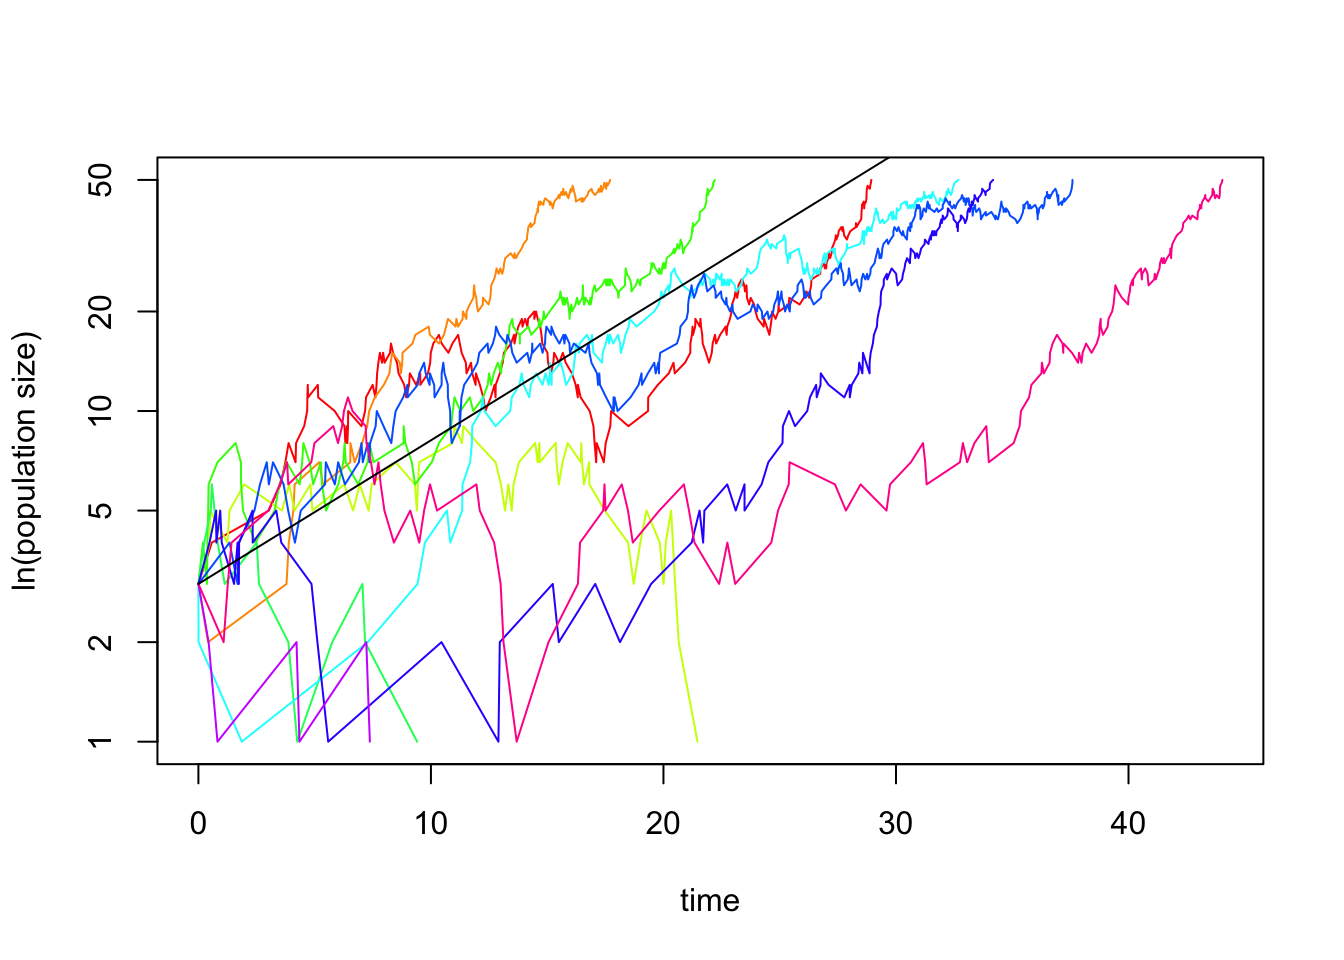
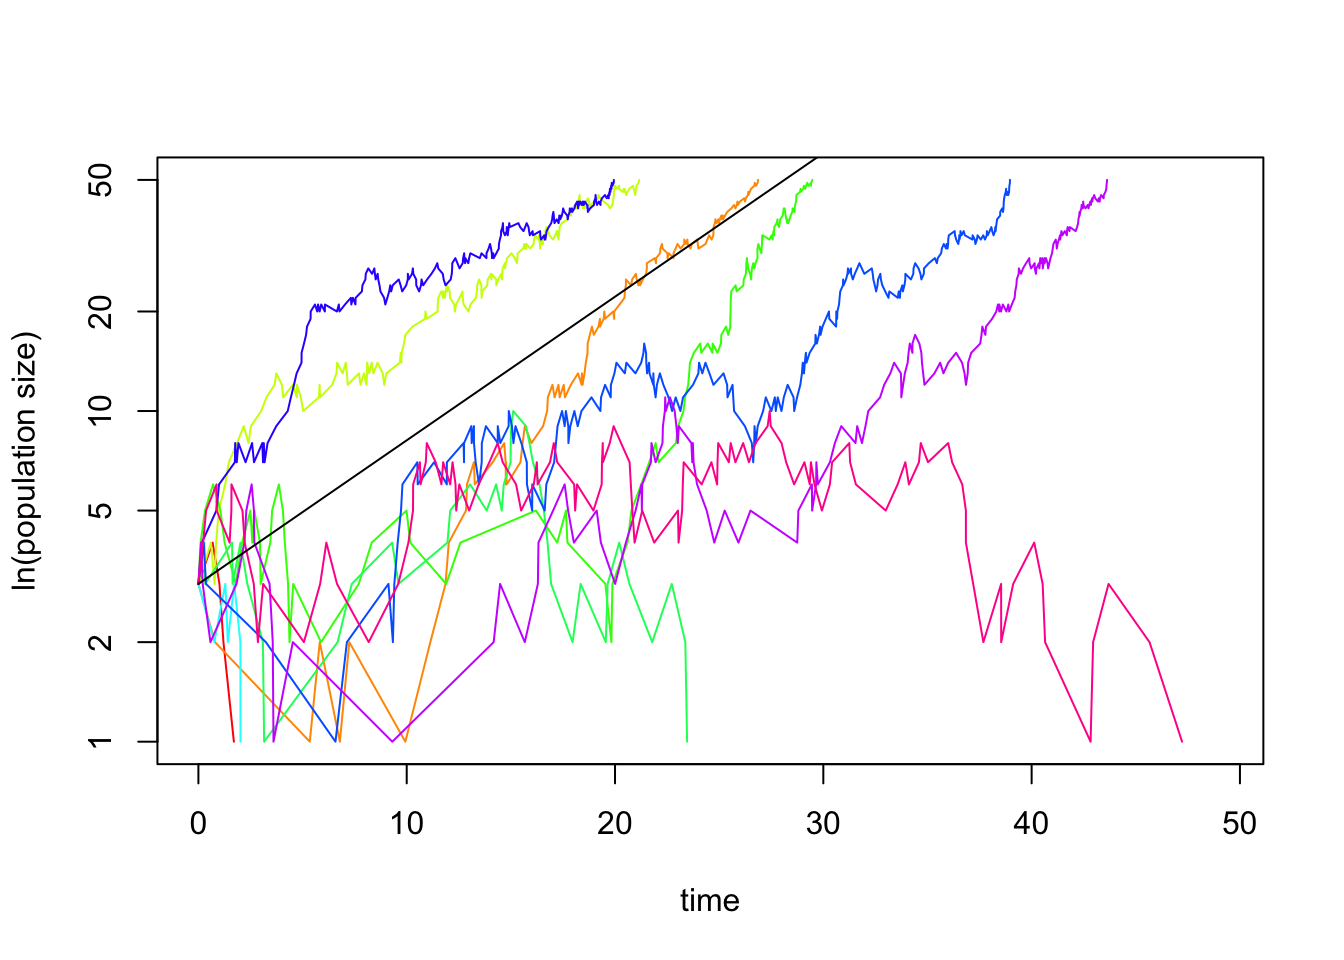
rerun

diff --git a/docs/DemographicStochasticity.html b/docs/DemographicStochasticity.html
@@ -364,20 +364,36 @@ population is either extinct or the population size has reached
 <p>We can evaluate the function by writing</p>
 <pre class="r"><code>time_series(N0 = 3, Nmax = 10, d = 0.2, b = 0.3)</code></pre>
 <pre><code>##            t  N
-## 1  0.0000000  3
-## 2  0.5442719  4
-## 3  0.5964761  5
-## 4  1.3940505  4
-## 5  1.9348835  5
-## 6  2.7509973  6
-## 7  2.7790384  5
-## 8  3.2105880  6
-## 9  3.3379583  7
-## 10 3.3831284  6
-## 11 4.2773285  7
-## 12 4.5206801  8
-## 13 4.6897192  9
-## 14 4.7751752 10</code></pre>
+## 1   0.000000  3
+## 2   1.004107  4
+## 3   1.365746  5
+## 4   1.389958  4
+## 5   1.480000  5
+## 6   1.942270  4
+## 7   2.739122  5
+## 8   2.890413  4
+## 9   3.511788  3
+## 10  4.120635  4
+## 11  4.275990  5
+## 12  5.516122  6
+## 13  5.749649  7
+## 14  6.058173  6
+## 15  6.235938  7
+## 16  6.653095  6
+## 17  6.856361  7
+## 18  7.017165  6
+## 19  7.422923  7
+## 20  7.547917  6
+## 21  7.797842  7
+## 22  7.895321  8
+## 23  7.927292  7
+## 24  8.602814  8
+## 25  9.352132  7
+## 26  9.528391  8
+## 27  9.593078  9
+## 28  9.601119  8
+## 29  9.754161  9
+## 30 10.067180 10</code></pre>
 <p>Thus, in this case we have <em>N0=3</em>, <em>Nmax=10</em>,
 <em>d=0.2</em>, and <em>b=0.3</em>. The output of the function is a data
 frame with two columns. The first column gives the time at which an
@@ -394,6 +410,8 @@ so, execute the function again to see whether it might then have reached
 stochastic version of exponential growth we might want to plot the
 population size on a log-scale.</p>
 <pre class="r"><code>plot(demographic.stoch, log=&quot;y&quot;, type=&quot;l&quot;, xlab=&quot;time&quot;, ylab=&quot;ln(population size)&quot;)</code></pre>
+<pre><code>## Warning in xy.coords(x, y, xlabel, ylabel, log): 1 y value &lt;= 0 omitted from
+## logarithmic plot</code></pre>
 <p><img src="DemographicStochasticity_files/figure-html/unnamed-chunk-6-1.png" width="672" /></p>
 <pre class="r"><code># note that the option log=&quot;y&quot; automatically produces a plot where population size is on a logarithmic scale</code></pre>
 <p>You can vary the parameters <em>N0</em>, <em>Nmax</em>, <em>d</em>
@@ -427,8 +445,10 @@ the longest simulation run.</p>
 tmax &lt;- max(maxt) # the length of the longest time series is assigned to the parameter tmax</code></pre>
 <p>Next comes the code that produces the plots.</p>
 <pre class="r"><code>colors &lt;- rainbow(length(results)) # sets number of colors equal to number sim
-plot(results[[1]], type=&quot;l&quot;, log=&quot;y&quot;, ylim=c(1, Nmax), xlim=c(0, tmax), col=colors[1], xlab=&quot;time&quot;, ylab=&quot;ln(population size)&quot;) # plots the first simulation
-for (i in 2:sim) {# this for-loop adds all further simulations to the same graph
+plot(results[[1]], type=&quot;l&quot;, log=&quot;y&quot;, ylim=c(1, Nmax), xlim=c(0, tmax), col=colors[1], xlab=&quot;time&quot;, ylab=&quot;ln(population size)&quot;) # plots the first simulation</code></pre>
+<pre><code>## Warning in xy.coords(x, y, xlabel, ylabel, log): 1 y value &lt;= 0 omitted from
+## logarithmic plot</code></pre>
+<pre class="r"><code>for (i in 2:sim) {# this for-loop adds all further simulations to the same graph
   lines(results[[i]], type=&quot;l&quot;, col=colors[i])
 }
 
